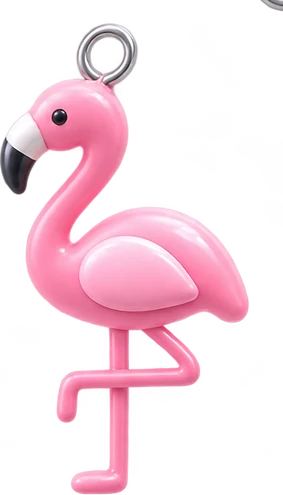
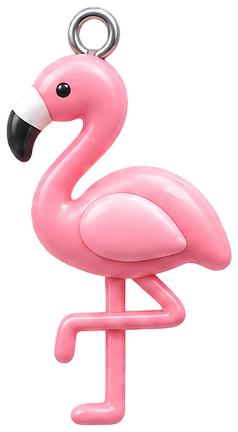
charm 에셋 최신본 교체 및 키링 정렬 재계산
- charm 7종 시트에서 알파 연결성분으로 분리해 개별 WebP로 추출 (142KB → 85KB)
- 새 자물쇠는 스위블 고리가 19.7px 아래 → 링·그룹 위치 보정
- 트럭·플라밍고는 자체 고리가 중심에서 크게 벗어나 있어(47.7/62, 23.5/44)
  --ring-x/--ring-y 실측값으로 고리를 회전축·링크 위치에 정렬
- 사이트 주소를 myoung.world로 설정

diff --git a/components/HeroCharm.module.css b/components/HeroCharm.module.css
@@ -45,7 +45,7 @@
 .ring {
   position: absolute;
   left: 166px;
-  top: 171px;
+  top: 191px;
   transform: translateX(-50%) scaleY(0.62) rotate(-4deg);
   transform-origin: 50% 0;
   width: 82px;
@@ -75,12 +75,16 @@
     1px 1px 2px rgba(22, 24, 29, 0.28);
 }
 
-/* 참은 고리에 살짝 물리도록 음수 margin으로 끌어올립니다 */
+/* 참은 '자기 고리'가 그룹 중심(회전축·링크 위치)에 오도록 좌우를 밀고,
+   음수 margin으로 링크에 물립니다. 고리 좌표는 각 이미지의 알파를
+   실측한 값입니다(--ring-x / --ring-y). */
 .charm {
   display: block;
-  margin-inline: auto;
   height: auto;
-  transform-origin: 50% 8%;
+  margin-left: calc(50% - var(--ring-x));
+  margin-right: 0;
+  margin-top: calc(var(--ring-y) * -1);
+  transform-origin: var(--ring-x) var(--ring-y);
 }
 
 @keyframes swingA {
@@ -124,7 +128,7 @@
 .groupA {
   --tilt: 58deg;
   left: 160px;
-  top: 200px;
+  top: 220px;
   width: 112px;
   margin-left: -84px;
   z-index: 1;
@@ -138,7 +142,8 @@
 
 .groupA .charm {
   width: 112px;
-  margin-top: -9px;
+  --ring-x: 54.6px;
+  --ring-y: 22.3px;
   transform: rotate(-56deg);
 }
 
@@ -146,7 +151,7 @@
 .groupB {
   --tilt: 12deg;
   left: 50%;
-  top: 206px;
+  top: 226px;
   width: 124px;
   margin-left: -72px;
   z-index: 3;
@@ -160,7 +165,8 @@
 
 .groupB .charm {
   width: 124px;
-  margin-top: -7px;
+  --ring-x: 47.7px;
+  --ring-y: 18.3px;
   transform: rotate(-10deg);
 }
 
@@ -168,7 +174,7 @@
 .groupC {
   --tilt: -4deg;
   left: 50%;
-  top: 206px;
+  top: 226px;
   width: 88px;
   margin-left: -34px;
   z-index: 4;
@@ -182,7 +188,8 @@
 
 .groupC .charm {
   width: 88px;
-  margin-top: -9px;
+  --ring-x: 23.5px;
+  --ring-y: 27.2px;
   transform: rotate(5deg);
 }
 
@@ -190,7 +197,7 @@
 .groupD {
   --tilt: -46deg;
   left: 50%;
-  top: 200px;
+  top: 220px;
   width: 104px;
   margin-left: -24px;
   z-index: 2;
@@ -204,7 +211,8 @@
 
 .groupD .charm {
   width: 104px;
-  margin-top: -9px;
+  --ring-x: 50.2px;
+  --ring-y: 11.5px;
   transform: rotate(44deg);
 }
 

diff --git a/data/site.ts b/data/site.ts
@@ -5,7 +5,7 @@ export const site = {
   wordmark: "MEEYOUNGSIM",
   role: "백엔드 개발자",
   roleEn: "JAVA BACKEND DEVELOPER",
-  url: "https://meeyoungsim.vercel.app",
+  url: "https://myoung.world",
   locationFull: "SEOUL, KOREA",
   year: "2026",
 
